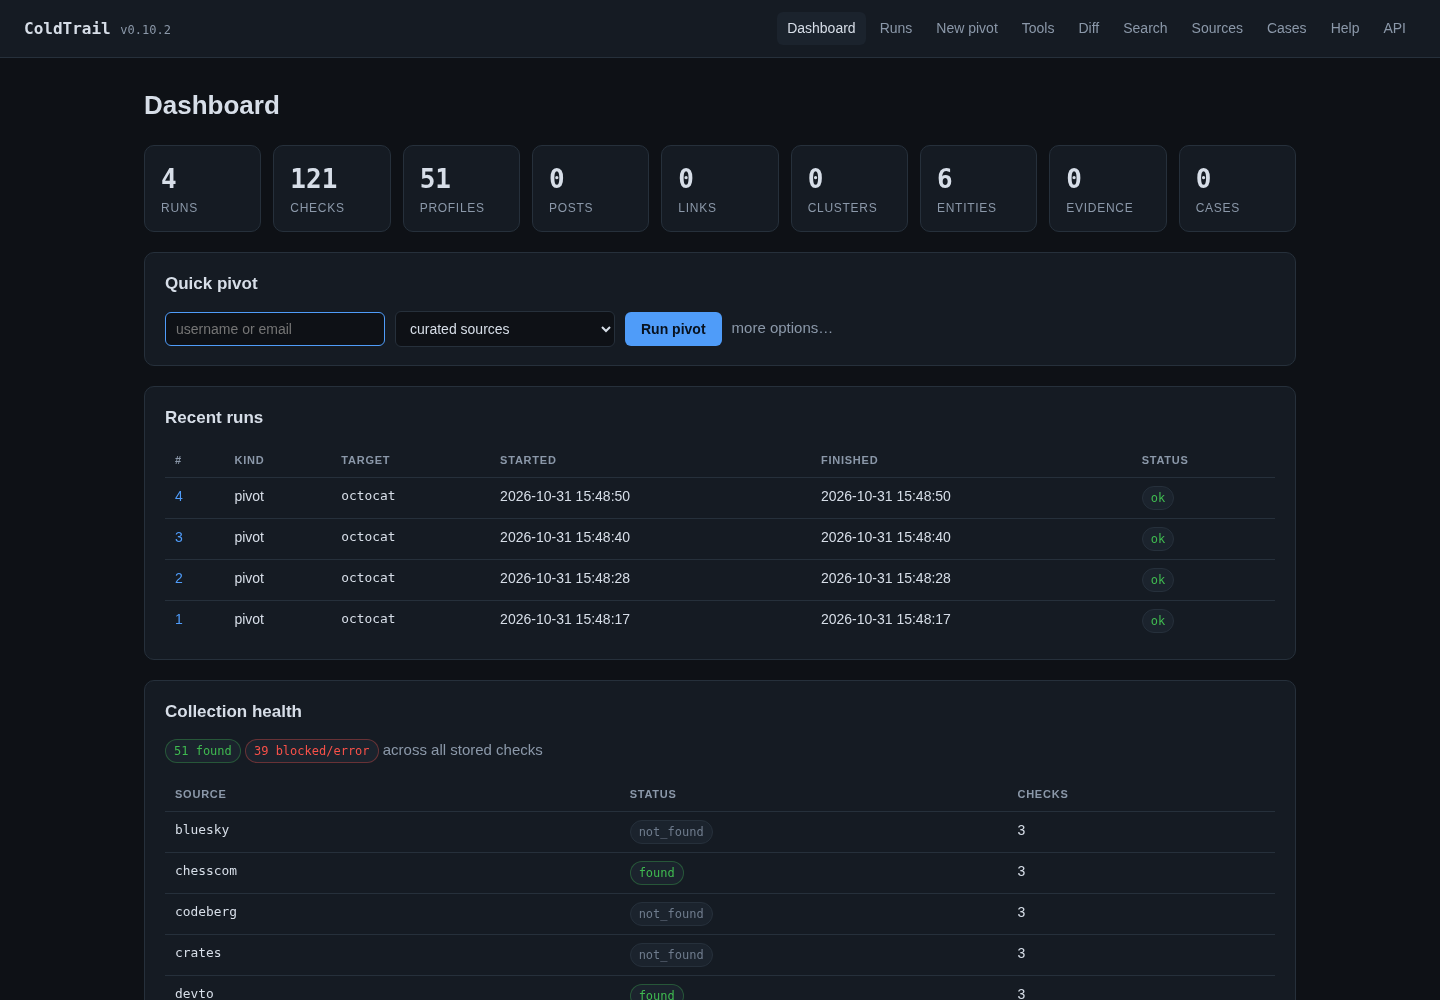
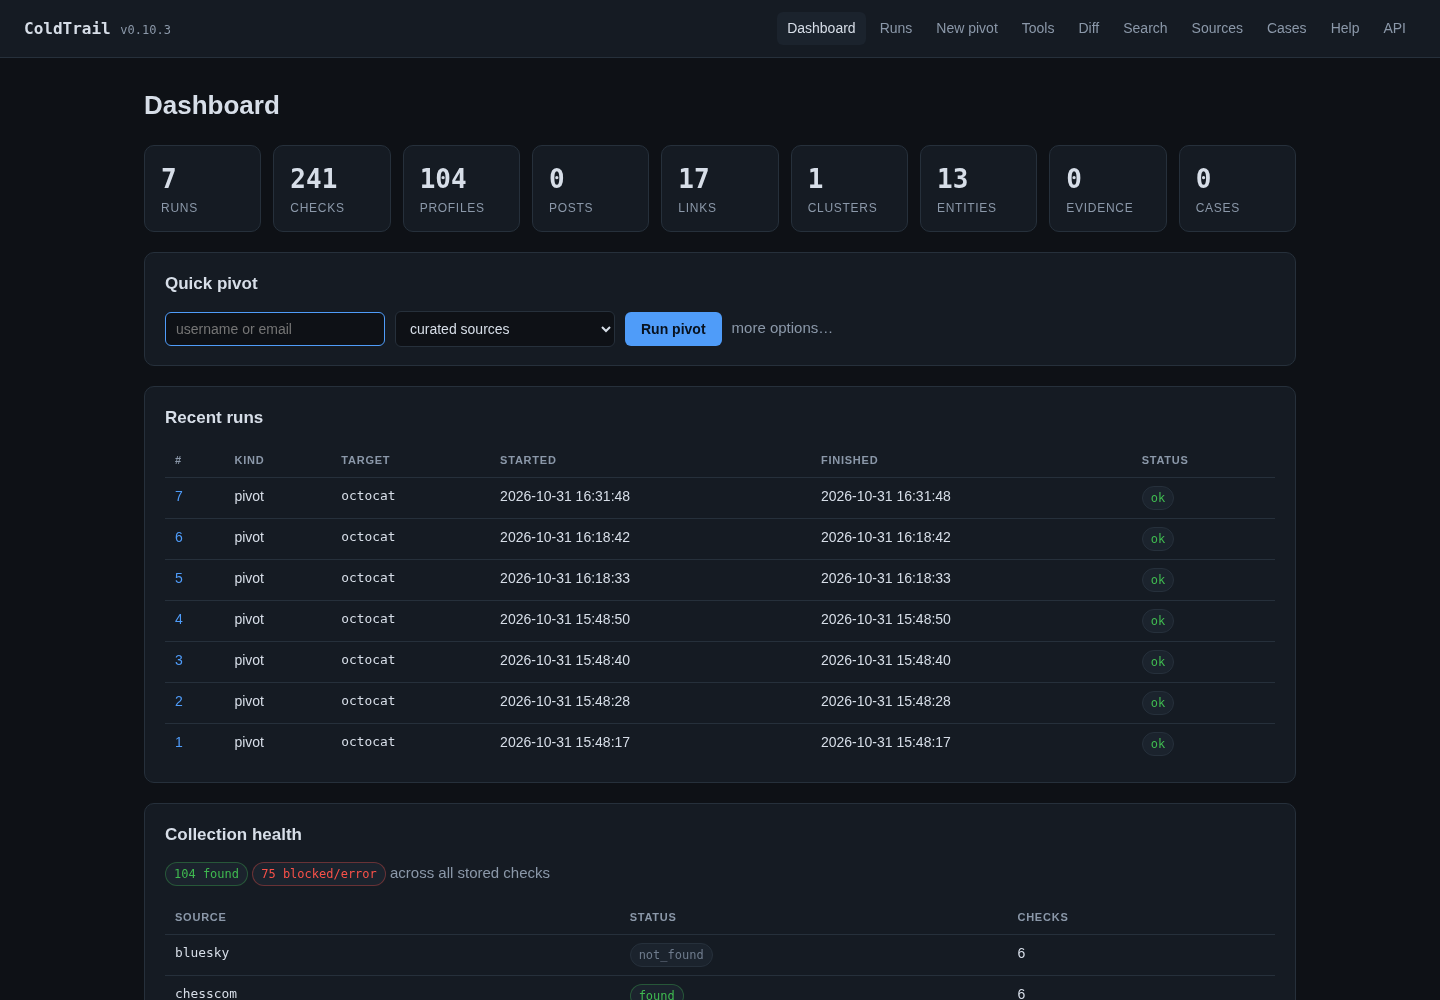
release: 0.10.3
Fix pinned HTTP and TLS connections to prefer IPv4 on dual-stack hosts. The previous release took addresses[0], which is IPv6 for dns.google and crt.sh, so domain, ip, and ct timed out on IPv4-only networks. Re-verified live against github.com, 1.1.1.1, and crt.sh.

diff --git a/docs/index.html b/docs/index.html
@@ -40,7 +40,7 @@
     "applicationCategory": "SecurityApplication",
     "applicationSubCategory": "Open Source Intelligence",
     "operatingSystem": "Linux, macOS, Windows",
-    "softwareVersion": "0.10.2",
+    "softwareVersion": "0.10.3",
     "license": "https://opensource.org/licenses/MIT",
     "codeRepository": "https://github.com/vezeqs/Cold-Trail",
     "url": "https://vezeqs.github.io/Cold-Trail/",

diff --git a/tests/test_audit_2026_10_31.py b/tests/test_audit_2026_10_31.py
@@ -26,7 +26,7 @@ from coldtrail.evidence import add_evidence, evidence_path, verify_evidence
 from coldtrail.http import BlockedError, Fetcher
 from coldtrail.models import Post
 from coldtrail.report import to_csv, to_maltego_csv
-from coldtrail.security import is_public_host, resolve_public_ips
+from coldtrail.security import is_public_host, preferred_public_ip, resolve_public_ips
 from coldtrail.store import Store
 from coldtrail.store.base import StoreError
 from coldtrail.utils import redact_url_credentials, write_private
@@ -199,6 +199,57 @@ def test_tls_probe_refuses_private_resolution(monkeypatch):
 def test_resolve_public_ips_rejects_private_answers():
     with pytest.raises(ValueError, match="non-public"):
         resolve_public_ips("localhost")
+
+
+def test_preferred_public_ip_prefers_ipv4():
+    assert preferred_public_ip(["2001:4860:4860::8888", "8.8.8.8"]) == "8.8.8.8"
+    assert preferred_public_ip(["2001:4860:4860::8888"]) == "2001:4860:4860::8888"
+
+
+def test_pinned_transport_prefers_ipv4(monkeypatch):
+    from coldtrail.http import _PinnedTransport
+
+    monkeypatch.setattr(
+        "coldtrail.security.socket.getaddrinfo",
+        lambda *a, **k: [
+            (socket.AF_INET6, socket.SOCK_STREAM, 6, "", ("2001:4860:4860::8888", 0, 0, 0)),
+            (socket.AF_INET, socket.SOCK_STREAM, 6, "", ("8.8.8.8", 0)),
+        ],
+    )
+    transport = _PinnedTransport()
+    request = httpx.Request("GET", "https://dns.google/resolve")
+    transport._pin(request)
+    assert request.url.host == "8.8.8.8"
+    assert request.headers["host"] == "dns.google"
+
+
+def test_tls_probe_prefers_ipv4(monkeypatch):
+    captured = {}
+
+    class FakeWriter:
+        def get_extra_info(self, name):
+            return None
+
+        def close(self):
+            return None
+
+        async def wait_closed(self):
+            return None
+
+    async def fake_open(host, port, **kwargs):
+        captured["host"] = host
+        return object(), FakeWriter()
+
+    monkeypatch.setattr(asyncio, "open_connection", fake_open)
+    monkeypatch.setattr(
+        "coldtrail.security.socket.getaddrinfo",
+        lambda *a, **k: [
+            (socket.AF_INET6, socket.SOCK_STREAM, 6, "", ("2001:4860:4860::8888", 0, 0, 0)),
+            (socket.AF_INET, socket.SOCK_STREAM, 6, "", ("8.8.8.8", 0)),
+        ],
+    )
+    asyncio.run(tls_cert_info("dns.google"))
+    assert captured["host"] == "8.8.8.8"
 
 
 def test_pinned_transport_rewrites_the_url_but_keeps_host_and_sni(monkeypatch):

diff --git a/src/coldtrail/domain.py b/src/coldtrail/domain.py
@@ -9,7 +9,7 @@ import struct
 from typing import Any
 
 from .http import Fetcher, FetchError
-from .security import is_public_host, resolve_public_ips
+from .security import is_public_host, preferred_public_ip, resolve_public_ips
 from .utils import dedupe, sensitive_cache_key
 
 RDAP = "https://rdap.org/domain"
@@ -480,13 +480,13 @@ async def tls_cert_info(
     if settings is not None and (settings.tor or settings.proxy):
         return None
     try:
-        addresses = resolve_public_ips(domain)
+        address = preferred_public_ip(resolve_public_ips(domain))
     except ValueError:
         return None
     context = ssl.create_default_context()
     try:
         _reader, writer = await asyncio.wait_for(
-            asyncio.open_connection(addresses[0], port, ssl=context, server_hostname=domain),
+            asyncio.open_connection(address, port, ssl=context, server_hostname=domain),
             timeout=timeout,
         )
     except (TimeoutError, OSError, ssl.SSLError):

diff --git a/src/coldtrail/security.py b/src/coldtrail/security.py
@@ -111,6 +111,25 @@ def resolve_public_ips(host: str) -> list[str]:
     return addresses
 
 
+def preferred_public_ip(addresses: list[str]) -> str:
+    """Return an IPv4 address when the host publishes one, else the first.
+
+    Dual-stack hosts often return AAAA records before A. A pinned connection
+    that always takes ``addresses[0]`` then times out on IPv4-only networks;
+    preferring IPv4 keeps the common case working while still pinning to a
+    validated address.
+    """
+    if not addresses:
+        raise ValueError("no addresses to pin")
+    for address in addresses:
+        try:
+            if ipaddress.ip_address(address).version == 4:
+                return address
+        except ValueError:
+            continue
+    return addresses[0]
+
+
 def host_of(value: str) -> str | None:
     raw = value.strip()
     if not raw:

diff --git a/src/coldtrail/http.py b/src/coldtrail/http.py
@@ -16,7 +16,7 @@ from urllib.robotparser import RobotFileParser
 import httpx
 
 from .config import ConfigError, Settings
-from .security import is_public_host, resolve_public_ips
+from .security import is_public_host, preferred_public_ip, resolve_public_ips
 from .utils import now_iso
 
 if TYPE_CHECKING:
@@ -104,7 +104,7 @@ class _PinnedTransport(httpx.AsyncHTTPTransport):
         if _is_ip_literal(host):
             return
         try:
-            pinned = resolve_public_ips(host)[0]
+            pinned = preferred_public_ip(resolve_public_ips(host))
         except ValueError as exc:
             raise httpx.ConnectError(str(exc), request=request) from exc
         request.url = original.copy_with(host=pinned)

diff --git a/src/coldtrail/config.py b/src/coldtrail/config.py
@@ -9,7 +9,7 @@ from typing import Any
 from .utils import redact_url_credentials
 
 DEFAULT_INSTANCES = ("mastodon.social", "fosstodon.org", "infosec.exchange")
-DEFAULT_UA = "coldtrail/0.10.2 (OSINT research; public data only)"
+DEFAULT_UA = "coldtrail/0.10.3 (OSINT research; public data only)"
 
 
 class ConfigError(ValueError):

diff --git a/src/coldtrail/__init__.py b/src/coldtrail/__init__.py
@@ -1,3 +1,3 @@
 """ColdTrail: OSINT pivoting and public profile/post harvesting."""
 
-__version__ = "0.10.2"
+__version__ = "0.10.3"

diff --git a/AUDIT-2026-10-31.md b/AUDIT-2026-10-31.md
@@ -458,11 +458,11 @@ deleting it breaks the next command until a re-sync. Remove it yourself with
 - Correlation, timezone inference, and at-rest encryption remain documented
   limits in `SECURITY.md` and `README.md`; none is a regression from this pass.
 
-## Pre-ship verification (2026-10-31)
+## Pre-ship verification (2026-10-31, 0.10.3)
 
-Run after the fixes above, on the working tree on top of `efeb32a`:
+Run for the 0.10.3 patch on the working tree on top of `016774a`:
 
-- `uv run pytest -q`: 617 passed (offline; `tests/conftest.py` blocks sockets).
+- `uv run pytest -q`: 620 passed (offline; `tests/conftest.py` blocks sockets).
 - `uv run ruff check .`, `ruff format --check .`, `uv run mypy`: clean.
 - `uv build --wheel`: the wheel includes `data/sites.toml`, `schemas.py`,
   17 templates, and 2 static files.
@@ -473,8 +473,14 @@ Run after the fixes above, on the working tree on top of `efeb32a`:
   `B406` output escaping (not XML parsing), and `B112` a best-effort wayback
   probe.
 - `uvx pip-audit`: no known vulnerabilities.
-- Live `pivot octocat --no-save --json`: 40 checks (17 found, 9 blocked,
-  4 error, 10 not found); failures stayed isolated.
+- Live `pivot octocat --no-save --json` on 0.10.3: 40 checks (20 found,
+  10 blocked, 10 not found, 0 error); 20 profiles.
+- Post-release OSINT smoke: `pivot`, `harvest`, `graph`, `domain`, `ip`,
+  `phone`, `dorks`, `ct`, `pwned`, `search`, `timeline`, and exports. It found
+  the IPv4-first pinning regression; `preferred_public_ip` fixes it. Re-verified
+  live on 0.10.3: `domain` (A/MX/TXT/NS, 42 subdomains, TLS), `ip` (PTR
+  `one.one.one.one.`), and `ct` (5 certificates). `archive` could not reach
+  `web.archive.org` from this network (direct HTTP/HTTPS also failed).
 - Web `TestClient`: pages and APIs 200; foreign `Host` 403; cross-origin POST
   403; SSE job stream reached `done`; bearer / `X-API-Key` / cookie auth 200;
   wrong token 401; `/login` rate limit 429; non-loopback bind without a token
@@ -487,6 +493,6 @@ Run after the fixes above, on the working tree on top of `efeb32a`:
 - Exports: json, jsonl, csv, graphml, gexf, dot, html, md, stix, sarif, and
   maltego; redact, encrypt/decrypt, dossier, and HTML diff all produced output.
 - Docs: `test_docs_drift.py` and `test_media_manifest.py` pass; local links,
-  sitemap, robots, and JSON-LD are valid; version 0.10.2 is consistent.
+  sitemap, robots, and JSON-LD are valid; version 0.10.3 is consistent.
 - Secret scan: no `gho_`/`ghp_`/`sk-`/`AKIA`/private-key material; no tracked
   database, `.env`, or generated artifact.

diff --git a/AGENTS.md b/AGENTS.md
@@ -283,7 +283,9 @@ src/coldtrail/
 - **`_PinnedTransport` must not rewrite a URL another layer owns.** respx swaps
   the httpcore pool's `handle_async_request`; `_owns_routing()` detects that and
   passes the request through untouched. Remove that check and every mocked
-  source test matches on an IP instead of a hostname.
+  source test matches on an IP instead of a hostname. It also prefers an IPv4
+  address when a dual-stack host publishes one; taking `addresses[0]` blindly
+  times out on IPv4-only networks.
 - **The redirect check resolves DNS only when the host changed** (`resolve=True`)
   and falls back to `resolve=False` for the unchanged case, so literal private
   IPs stay blocked without a DNS lookup on every response.

diff --git a/CHANGELOG.md b/CHANGELOG.md
@@ -6,6 +6,14 @@ All notable changes to this project are documented here. The format follows
 
 ## [Unreleased]
 
+## [0.10.3] - 2026-10-31
+
+### Fixed
+
+- Pinned HTTP and TLS connections prefer an IPv4 address when a dual-stack host
+  publishes one, so `domain`, `ip`, and `ct` no longer time out on IPv4-only
+  networks.
+
 ## [0.10.2] - 2026-10-31
 
 ### Fixed
